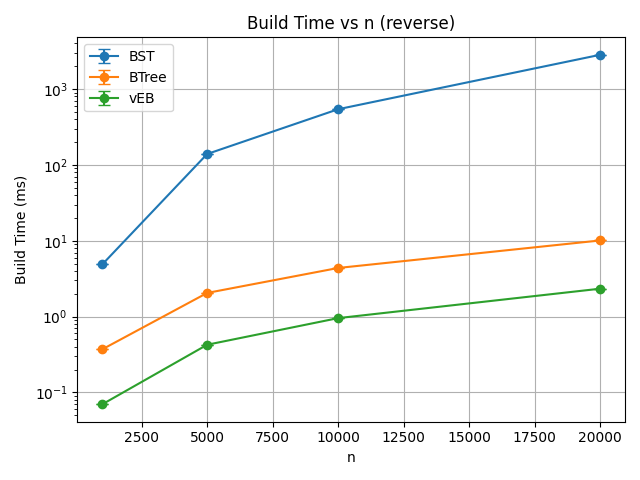
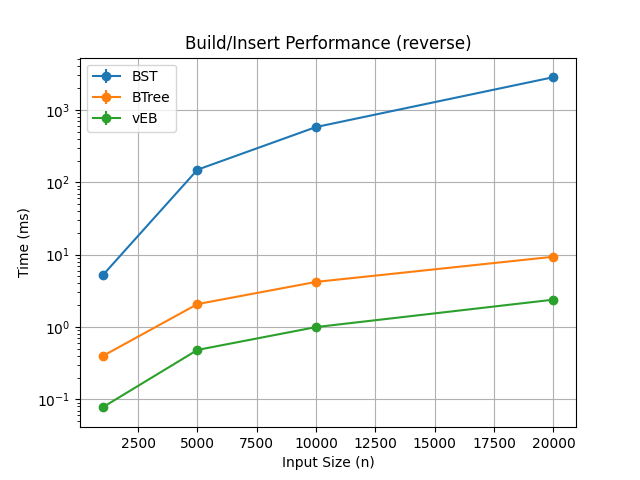
Completed perf logs manually

diff --git a/analysis/analyze.py b/analysis/analyze.py
@@ -1,0 +1,90 @@
+import pandas as pd
+import matplotlib.pyplot as plt
+import os
+
+# ================= LOAD DATA =================
+df = pd.read_csv("results/results.csv")
+
+# ================= PROCESS =================
+# Group and compute mean + std
+grouped = df.groupby(["structure", "workload", "n", "operation"])
+
+stats = grouped["time_ms"].agg(["mean", "std"]).reset_index()
+
+# Save processed data
+os.makedirs("data/processed", exist_ok=True)
+stats.to_csv("data/processed/summary.csv", index=False)
+
+print("✅ Summary saved to data/processed/summary.csv")
+
+# ================= PLOTTING =================
+os.makedirs("analysis/plots", exist_ok=True)
+
+structures = stats["structure"].unique()
+workloads = stats["workload"].unique()
+
+# -------- Plot: Search Performance --------
+for workload in workloads:
+    plt.figure()
+
+    for structure in structures:
+        subset = stats[
+            (stats["workload"] == workload) &
+            (stats["structure"] == structure) &
+            (stats["operation"] == "search")
+        ]
+
+        plt.errorbar(
+            subset["n"],
+            subset["mean"],
+            yerr=subset["std"],
+            label=structure,
+            marker='o'
+        )
+
+    plt.title(f"Search Performance ({workload})")
+    plt.xlabel("Input Size (n)")
+    plt.ylabel("Time (ms)")
+    plt.yscale("log") 
+    plt.legend()
+    plt.grid()
+
+    filename = f"analysis/plots/search_{workload}.png"
+    plt.savefig(filename)
+    plt.close()
+
+    print(f"📊 Saved: {filename}")
+
+# -------- Plot: Build/Insert Performance --------
+for workload in workloads:
+    plt.figure()
+
+    for structure in structures:
+        op = "build" if structure == "vEB" else "insert"
+
+        subset = stats[
+            (stats["workload"] == workload) &
+            (stats["structure"] == structure) &
+            (stats["operation"] == op)
+        ]
+
+        plt.errorbar(
+            subset["n"],
+            subset["mean"],
+            yerr=subset["std"],
+            label=structure,
+            marker='o'
+        )
+
+    plt.title(f"Build/Insert Performance ({workload})")
+    plt.xlabel("Input Size (n)")
+    plt.ylabel("Time (ms)")
+    plt.yscale("log")
+    plt.legend()
+    plt.grid()
+
+    filename = f"analysis/plots/build_{workload}.png"
+    plt.savefig(filename)
+    plt.close()
+
+    print(f"📊 Saved: {filename}")
